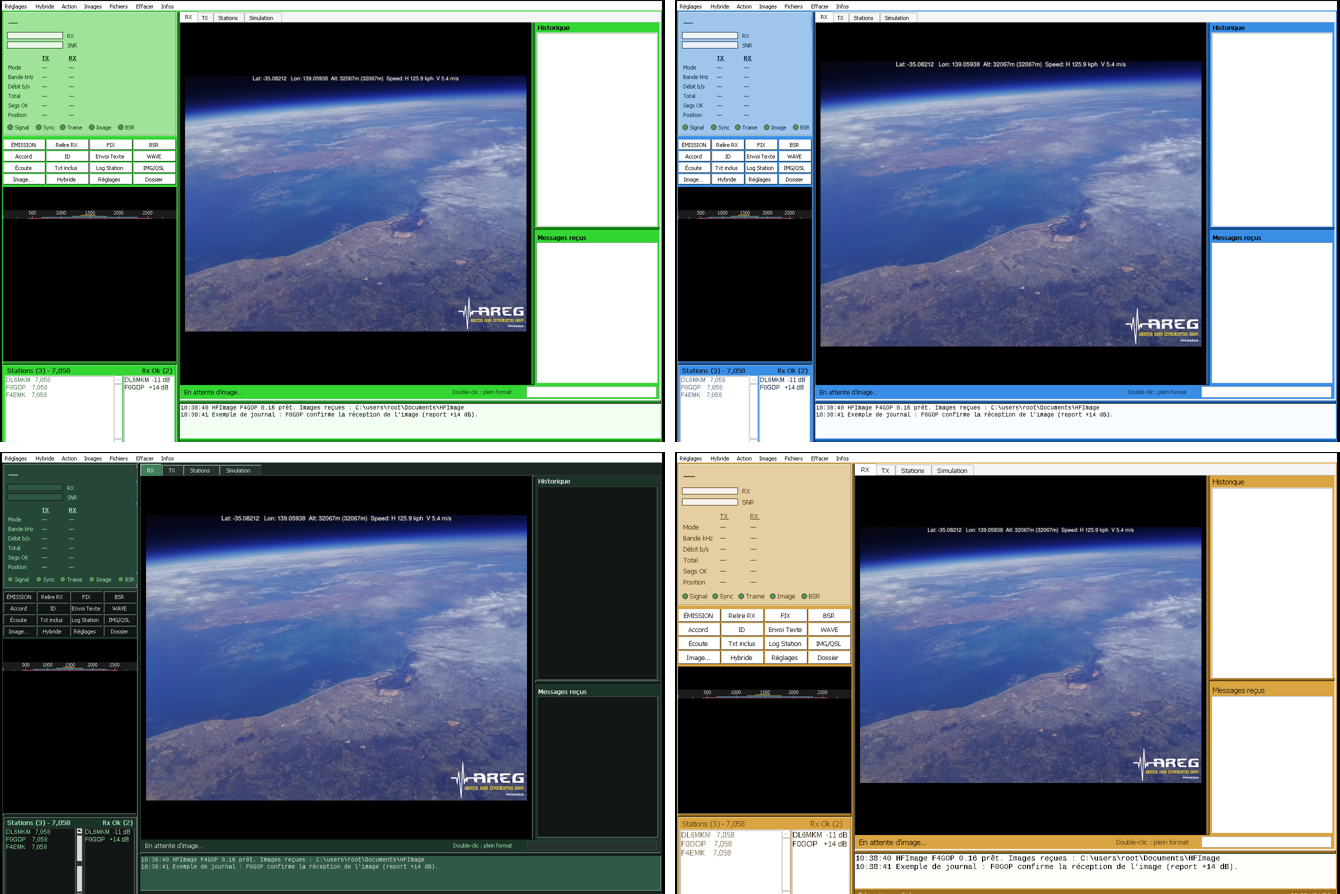
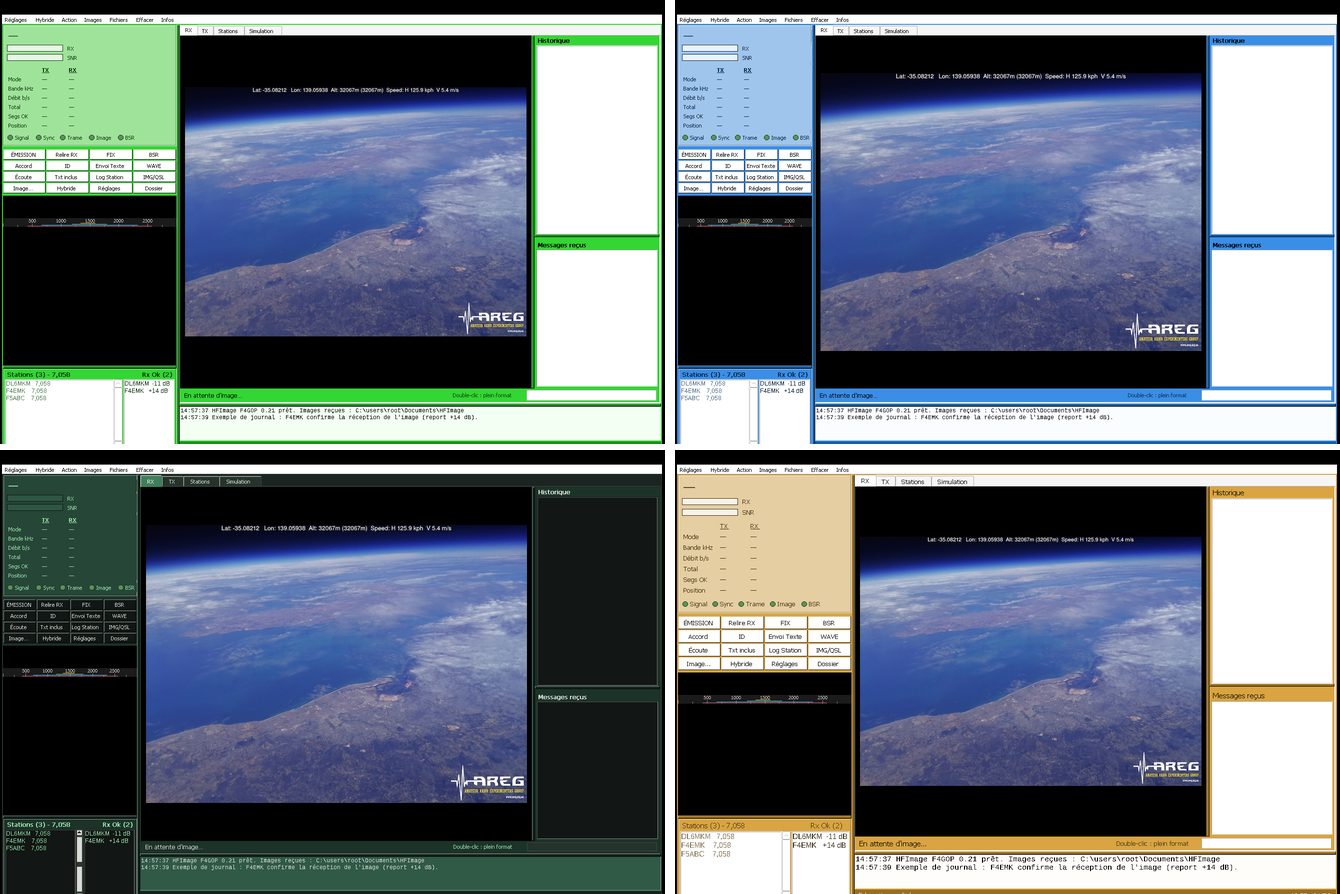
Captures d'écran : indicatif F4GOP à jour, fenêtre Poste radio
Claude-Session: https://claude.ai/code/session_01T4oac83yoRC4FpFbFwn7qi

diff --git a/README.md b/README.md
@@ -44,6 +44,8 @@ Programme Windows de F4GOP (Denis, IN98QR) pour envoyer et recevoir des photos p
 | Carte des stations | Carte QSL personnalisable |
 | ![Thèmes](docs/images/themes.png) | ![Netteté](docs/images/nettete_datac1x.png) |
 | Thèmes de couleurs | DATAC1 60 s (avant) / DATAC1X 1 min 30 / DATAC1X 2 min |
+| ![Poste radio](docs/images/poste_radio.png) | ![Stations et Rx Ok](docs/images/stations_rxok.png) |
+| Réglages du poste (comme WSJT-X) | Stations en ligne et Rx Ok |
 
 ## Démarrage rapide (Kenwood TS-890 / TS-990)
 
